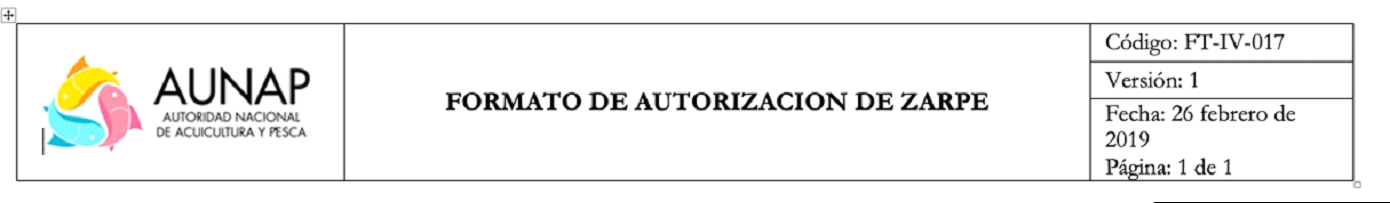
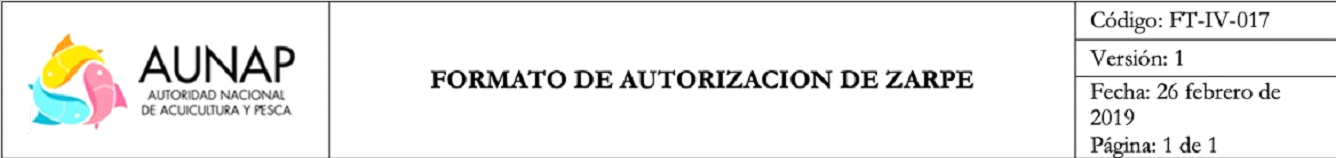
mod zarpe vue

Changed region(s): [[0.0, 0.0, 1.0, 1.0], [0.3069, 0.4304, 0.7365, 0.5823]]

diff --git a/resources/assets/js/components/Zarpe.vue b/resources/assets/js/components/Zarpe.vue
@@ -1935,7 +1935,7 @@ export default {
         var logo = new Image();
         //logo.src = '/img/logoAUNAP.png';
         logo.src = '/img/tituloImpZarpe.png';
-        doc.addImage(logo, 'png', 0, 0, 333, 55);
+        doc.addImage(logo, 'png', 0, 0, 200, 55);
         //doc.text("FORMATO DE AUTORIZACIÓN DE ZARPE", 60, 20);
         // doc.text(`FORMATO ACTA DE DONACIÓN ${variable} , otro texto si necesita mas variables ${otra}`, 65, 60);
         doc.setFont("arial");
